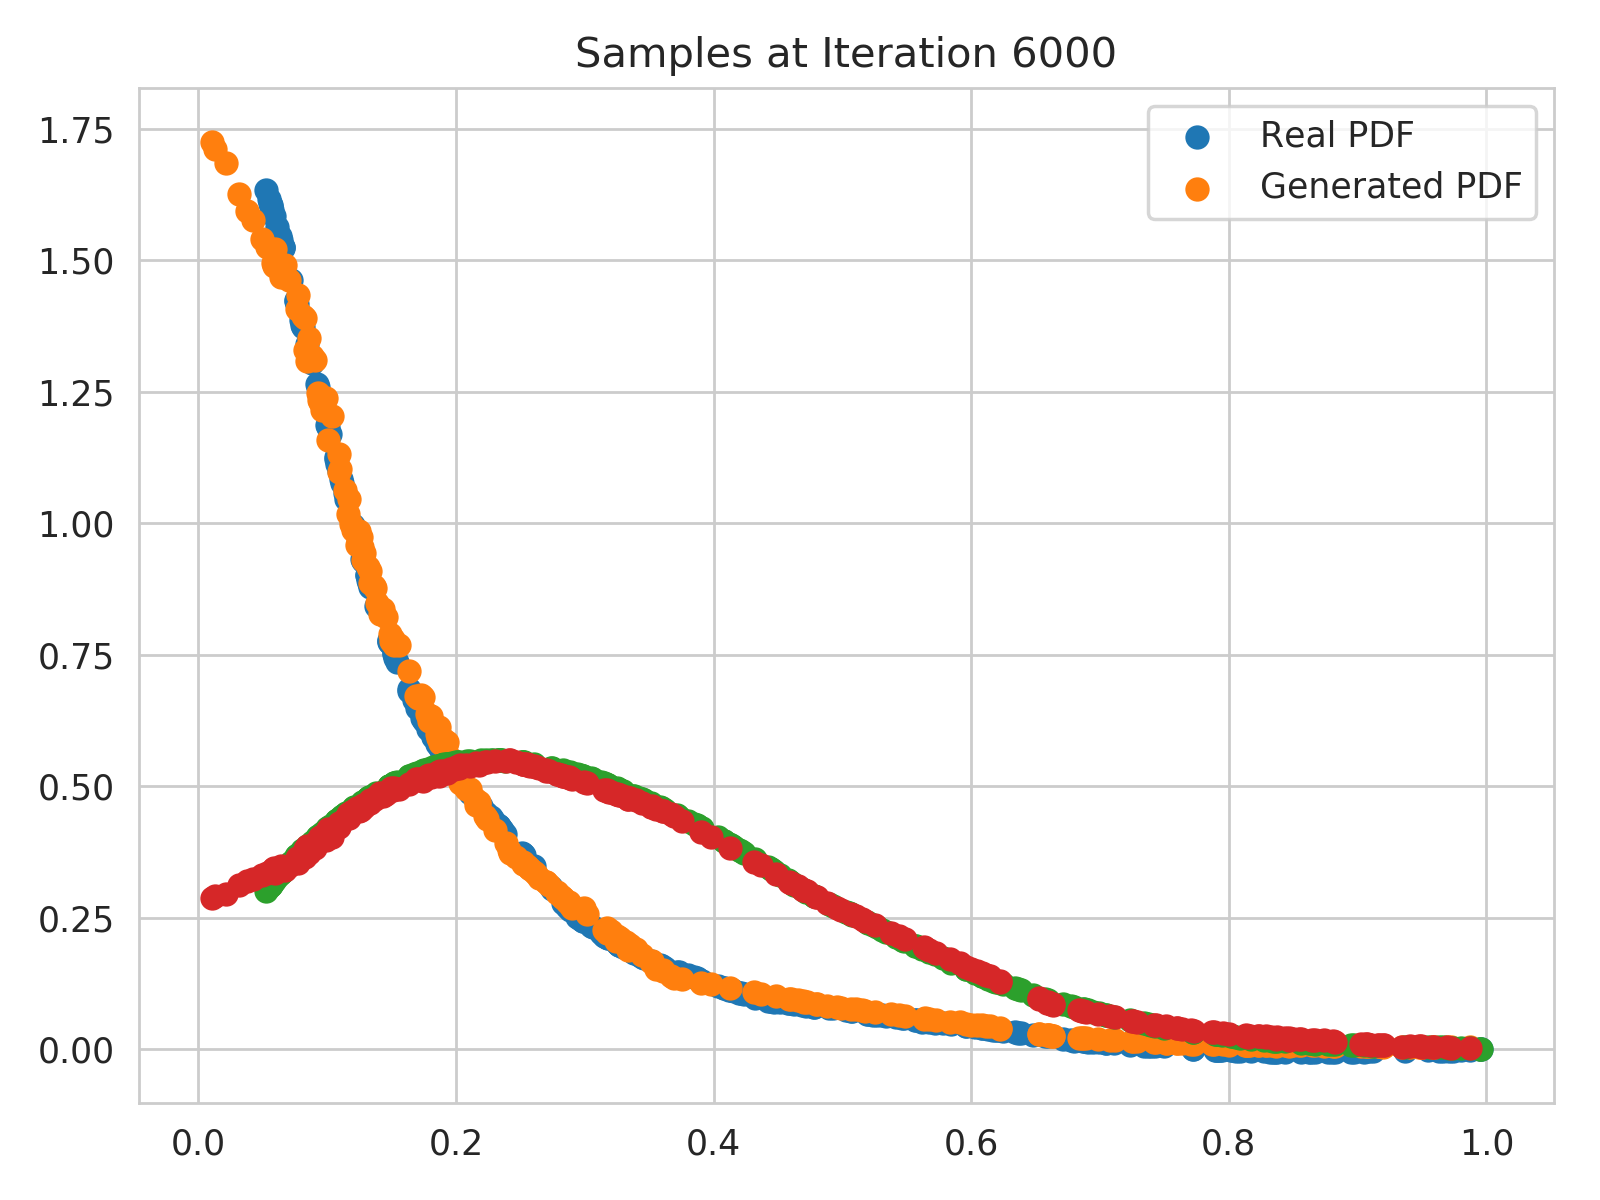
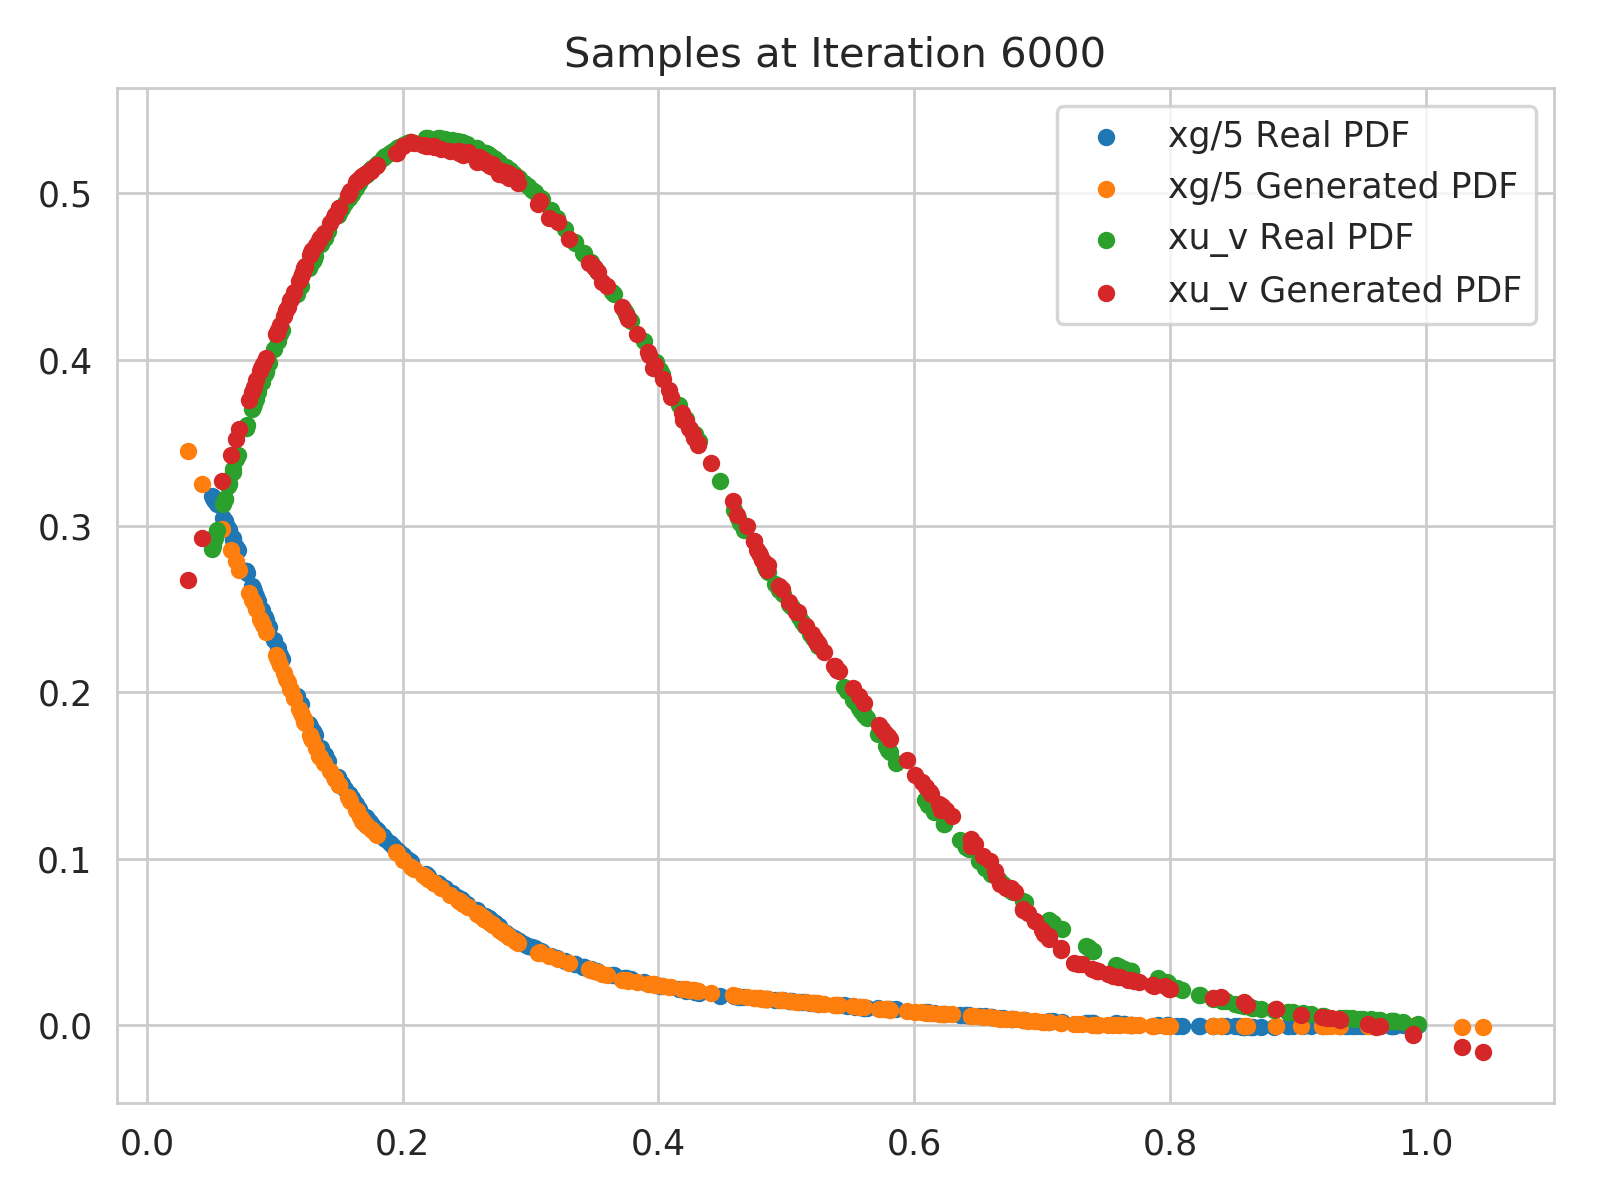
Makes everything worling

diff --git a/PDFs_Replicas/GANs_Gluon.py b/PDFs_Replicas/GANs_Gluon.py
@@ -17,7 +17,7 @@ print(pdf.description)
 pdf_central = pdf.mkPDF(0)
 
 # Define the scale 
-Q_pdf = 1.25
+Q_pdf = 1.5
 
 # Define a log uniform function
 def loguniform(low=0, high=1, size=None):
@@ -34,8 +34,8 @@ def sample_pdf(n=1000):
     for i in np.random.uniform(0.1,1,n-m): x_pdf.append(i)
     # Construct the sampling
     for x in x_pdf:
-        y_pdf1 = pdf_central.xfxQ(21,x,Q_pdf)                               # gluon
-        y_pdf2 = pdf_central.xfxQ(2,x,Q_pdf)-pdf_central.xfxQ(-2,x,Q_pdf)   # valence u_quark
+        y_pdf1 = pdf_central.xfxQ2(21,x,Q_pdf)/5                                # gluon
+        y_pdf2 = pdf_central.xfxQ2(2,x,Q_pdf)-pdf_central.xfxQ2(-2,x,Q_pdf)     # valence u_quark
         data.append([x,y_pdf1,y_pdf2])
     return np.array(data)
 
@@ -155,13 +155,13 @@ for i in range(numb_training):
         g_plot = sess.run(G_sample, feed_dict={Z: Z_batch})
 
         plt.figure()
-        xax = plt.scatter(x_plot[:,0],x_plot[:,1])
-        gax = plt.scatter(g_plot[:,0],g_plot[:,1])
+        xax_g = plt.scatter(x_plot[:,0],x_plot[:,1],s=16)
+        gax_g = plt.scatter(g_plot[:,0],g_plot[:,1],s=16)
 
-        xaxu = plt.scatter(x_plot[:,0],x_plot[:,2])
-        gaxu = plt.scatter(g_plot[:,0],g_plot[:,2])
+        xax_u = plt.scatter(x_plot[:,0],x_plot[:,2],s=16)
+        gax_u = plt.scatter(g_plot[:,0],g_plot[:,2],s=16)
 
-        plt.legend((xax,gax), ("Real PDF","Generated PDF"))
+        plt.legend((xax_g,gax_g,xax_u,gax_u), ("xg/5 Real PDF","xg/5 Generated PDF","xu_v Real PDF","xu_v Generated PDF"))
         plt.title('Samples at Iteration %d'%i)
         plt.tight_layout()
         plt.savefig('iterations/iteration_%d.png'%i, dpi=250)
